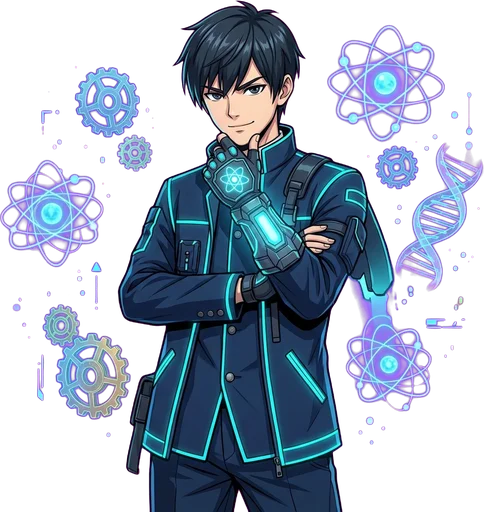
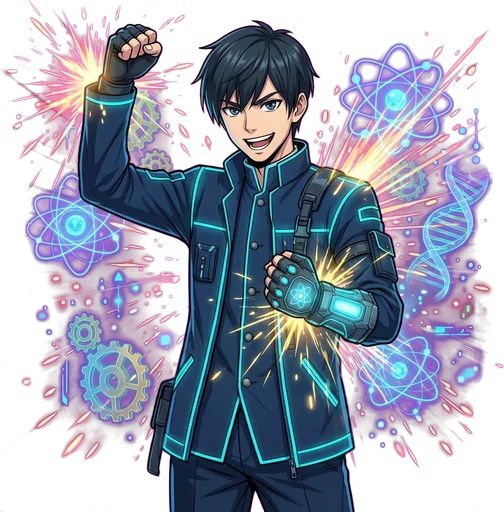
換上重畫的答對圖；獎盃圖不是洋紅底時改為四邊淡出

diff --git a/tools/process_images.py b/tools/process_images.py
@@ -25,6 +25,22 @@ def chroma(img):
     box = im.getchannel("A").point(lambda v: 255 if v > 20 else 0).getbbox()
     return im.crop(box) if box else im
 
+def is_magenta_bg(im):
+    """四個角落有兩個以上是洋紅色，才算洋紅底"""
+    a = im.convert("RGB"); w, h = a.size
+    def mag(p): r, g, b = a.getpixel(p); return min(r, b) - g > 120
+    return sum(mag(p) for p in [(3, 3), (w - 4, 3), (3, h - 4), (w - 4, h - 4)]) >= 2
+
+def vignette(im):
+    """圓角方形遮罩，邊緣 12% 漸淡成透明"""
+    im = im.convert("RGBA"); w, h = im.size
+    y, x = np.mgrid[0:h, 0:w].astype(np.float32)
+    dx = np.minimum(x, w - 1 - x) / w; dy = np.minimum(y, h - 1 - y) / h
+    edge = np.minimum(dx, dy)
+    alpha = np.clip(edge / 0.12, 0, 1) ** 1.5
+    a = np.asarray(im).copy(); a[..., 3] = (a[..., 3] * alpha).astype(np.uint8)
+    return Image.fromarray(a, "RGBA")
+
 def process_one(path):
     """處理單一原圖，回傳輸出檔名與尺寸"""
     stem = os.path.splitext(os.path.basename(path))[0].lower()
@@ -34,7 +50,8 @@ def process_one(path):
         if im.width > 1600: im = im.resize((1600, round(im.height * 1600 / im.width)), Image.LANCZOS)
         im.save(os.path.join(DST, "hero.webp"), "WEBP", quality=80)
     else:
-        im = chroma(im)
+        # Gemini 沒畫洋紅底（例如深色光柱背景）時不去背，改成四邊柔和淡出，融進遊戲的深藍底
+        im = chroma(im) if is_magenta_bg(im) else vignette(im)
         im.thumbnail((512, 512), Image.LANCZOS)
         im.save(os.path.join(DST, stem + ".webp"), "WEBP", quality=85)
     return stem + ".webp", im.size
